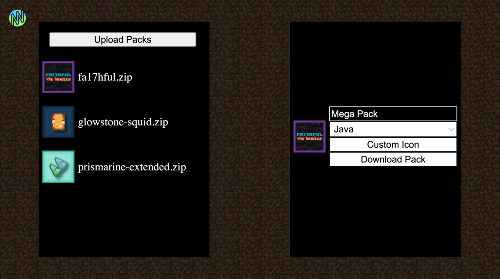
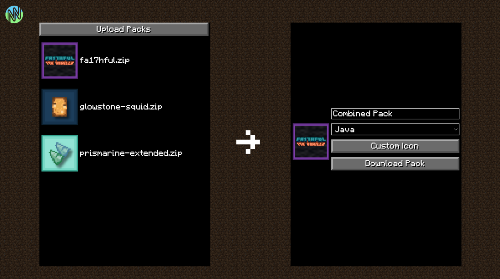
Updated Pack Combiner ui

diff --git a/packcombiner.html b/packcombiner.html
@@ -16,6 +16,36 @@
     
     <link rel="icon" href="neralogo.png">
     <style>
+    @font-face {
+        font-family: mcfont;
+        src: url(mcfont.ttf);
+    }
+    input, select, button {
+        padding:4px;
+        color:white;
+        width:100%;
+        margin-bottom:10px;
+        font: 16px mcfont, sans-serif;
+        text-shadow: 2px 2px black;
+        box-sizing: border-box;
+    }
+    input, select {
+        background-color:black;
+        border:1px solid white;
+        outline:0;
+    }
+    button, select {
+        cursor:pointer;
+    }
+    button {
+        background-color:#6B6B6B;
+        outline:4px solid black;
+        border-top: 4px solid #AAAAAA;
+        border-left: 4px solid #AAAAAA;
+        border-bottom: 4px solid #535353;
+        border-right: 4px solid #535353;
+        padding:0 auto;
+    }
     body{
         background-image:url(bg32.png);
         image-rendering:pixelated;
@@ -54,6 +84,7 @@
         align-items:center;
     }
     .onepack{
+        font: 16px mcfont, sans-serif;
         cursor:grab;
     }
     .packicon{
@@ -62,34 +93,8 @@
         width:calc(14vh - 10px);
         padding:5px;
     }
-    #fakebutton{
-        width:calc(100% - 30px);
-        margin:15px;
-        cursor:pointer;
-    }
-    #newnameinput {
-        background-color:black;
-        border:1px solid white;
-        padding:2px;
-        outline:0;
-        color:white;
-        width:calc(100% - 6px);
-        float:left;
-    }
-    #downloadbutton, #newiconbutton, #versioninput{
-        background-color:white;
-        border:1px solid black;
-        padding:2px;
-        outline:0;
-        color:black;
-        width:100%;
-        float:left;
-    }
     #newpacktext{
         width:calc(34vw - 14vh - 5px);
-    }
-    input[type=button]{
-        cursor:pointer;
     }
     .hidden{
         display:none;
@@ -113,6 +118,14 @@
         top:15px;
         left:15px;
     }
+    #arrow {
+        font: 90px mcfont, sans-serif;
+        color: white;
+        position: fixed;
+        left: 50vw;
+        top: 50vh;
+        transform: translate(-50%, -50%);
+    }
     </style>
     <!-- Google tag (gtag.js) -->
     <script async src="https://www.googletagmanager.com/gtag/js?id=G-5DJPSM88KS"></script>
@@ -130,12 +143,13 @@
     <input type="file" id="newiconupload" class="hidden" onchange="newIcon(event.target.files[0])">
     <div class="half">
         <div id="packholder">
-            <input type="button" id="fakebutton" onclick="$('packupload').click()" value="Upload Packs">
+            <button id="fakebutton" onclick="$('packupload').click()">Upload Packs</button>
             <div id="uploadedholder">
                 
             </div>
         </div>
     </div>
+    <div id="arrow">→</div>
     <div class="half">
         <div id="downloadholder">
             <div id="newpack">
@@ -146,8 +160,8 @@
                         <option value="j">Java</option>
                         <option value="b">Bedrock</option>
                     </select>
-                    <input type="button" value="Custom Icon" onclick="$('newiconupload').click()" id="newiconbutton">
-                    <input type="button" value="Download Pack" onclick="download()" id="downloadbutton">
+                    <button onclick="$('newiconupload').click()" id="newiconbutton">Custom Icon</button>
+                    <button onclick="download()" id="downloadbutton">Download Pack</button>
                 </div>
             </div>
         </div>
@@ -285,50 +299,56 @@
     
     function download() {
         if (packs.length > 0) {
-            let nzip = new JSZip();
-            let iconname = "pack.png";
-            if ($('versioninput').value=="j") {
-                nzip.file("pack.mcmeta", '{"pack":{"pack_format":'+biggestVersion+',"description":[{"text":"' + $('newnameinput').value + '","color":"blue"},{"text":"\\nCombined by Nera","color":"green"}]}}');
-            } else {
-                iconname = "pack_icon.png";
-                nzip.file("manifest.json", '{"format_version":2,"header":{"description":"Combined by Nera","name":"' + $('newnameinput').value + '","uuid":"6e120eda-fd77-4227-a10b-e3d86898a6a9","version":[1,0,0],"min_engine_version": [ 1, '+biggestVersion+', 0 ]},"modules":[{"description":"Combined by Nera","type":"resources","uuid":"15e0f346-f963-4cd7-ad2a-c0d386c8995e","version":[1, 0, 0]}]}');
-            }
-    
-            if (customicon != "") {
-                nzip.file(iconname, customicon, {
-                    base64: true
-                });
-            } else if (packs[0].files[iconname] != undefined) {
-                nzip.file(iconname, packs[0].files[iconname], {
-                    base64: true
-                });
-            } else {
[1 lines of base64/hex data omitted]
-                    base64: true
-                });
-            }
-    
-            for (let p of packs) {
-                for (let fname of Object.keys(p.files)) {
-                    if (nzip.file(fname) == null) {
-                        nzip.file(fname, p.files[fname], {
-                            base64: true
-                        });
+            document.getElementById("downloadbutton").textContent = "Downloading...";
+            setTimeout(() => {
+                document.getElementById("downloadbutton").textContent = "Download Pack";
+            }, 5000);
+            setTimeout(() => {
+                let nzip = new JSZip();
+                let iconname = "pack.png";
+                if ($('versioninput').value=="j") {
+                    nzip.file("pack.mcmeta", '{"pack":{"pack_format":'+biggestVersion+',"description":[{"text":"' + $('newnameinput').value + '","color":"blue"},{"text":"\\nCombined by Nera","color":"green"}]}}');
+                } else {
+                    iconname = "pack_icon.png";
+                    nzip.file("manifest.json", '{"format_version":2,"header":{"description":"Combined by Nera","name":"' + $('newnameinput').value + '","uuid":"6e120eda-fd77-4227-a10b-e3d86898a6a9","version":[1,0,0],"min_engine_version": [ 1, '+biggestVersion+', 0 ]},"modules":[{"description":"Combined by Nera","type":"resources","uuid":"15e0f346-f963-4cd7-ad2a-c0d386c8995e","version":[1, 0, 0]}]}');
+                }
+        
+                if (customicon != "") {
+                    nzip.file(iconname, customicon, {
+                        base64: true
+                    });
+                } else if (packs[0].files[iconname] != undefined) {
+                    nzip.file(iconname, packs[0].files[iconname], {
+                        base64: true
+                    });
+                } else {
[1 lines of base64/hex data omitted]
+                        base64: true
+                    });
+                }
+        
+                for (let p of packs) {
+                    for (let fname of Object.keys(p.files)) {
+                        if (nzip.file(fname) == null) {
+                            nzip.file(fname, p.files[fname], {
+                                base64: true
+                            });
+                        }
                     }
                 }
-            }
-    
-            nzip.generateAsync({
-                type: "base64"
-            }).then(function(base64) { // download zip
-                var element = document.createElement('a');
-                element.setAttribute('href', "data:application/zip;base64," + base64);
-                element.setAttribute('download', $('newnameinput').value.split(" ").join("-") + '.zip');
-                element.click();
-                element.setAttribute('href', "");
-            }, function(e) {
-                alert(e);
-            });
+        
+                nzip.generateAsync({
+                    type: "base64"
+                }).then(function(base64) { // download zip
+                    var element = document.createElement('a');
+                    element.setAttribute('href', "data:application/zip;base64," + base64);
+                    element.setAttribute('download', $('newnameinput').value.split(" ").join("-") + '.zip');
+                    element.click();
+                    element.setAttribute('href', "");
+                }, function(e) {
+                    alert(e);
+                });
+            }, 20);
         }
     }
     

diff --git a/mcmetahelp.html b/mcmetahelp.html
@@ -16,7 +16,7 @@
         }
         #header {
             font: 32px mcfont, sans-serif;
-            text-shadow: 4px 4px black;
+            text-shadow: 2px 2px black;
         }
         .hidden {
             display:none;
@@ -27,7 +27,7 @@
             width:100%;
             margin-bottom:10px;
             font: 16px mcfont, sans-serif;
-            text-shadow: 4px 4px black;
+            text-shadow: 2px 2px black;
             box-sizing: border-box;
         }
         input, select {
